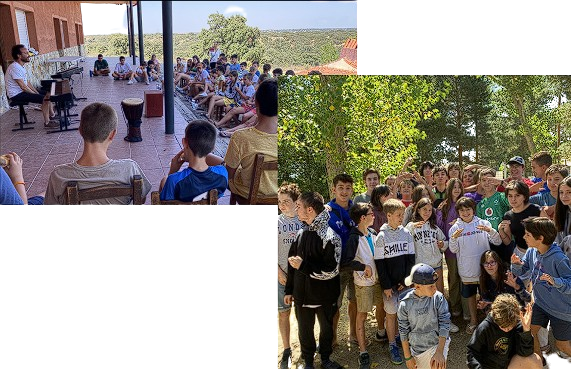
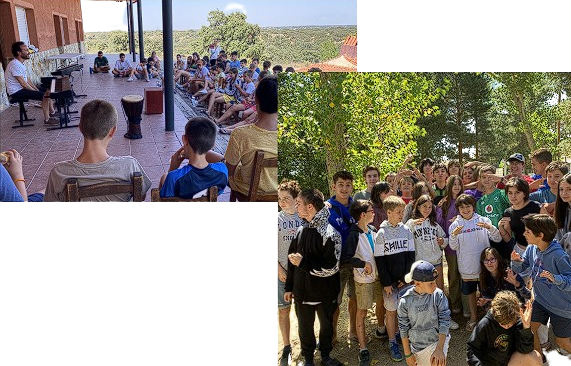
"WhyChoose" image fixed 2

diff --git a/web-dacpac/src/componets/WhyChoose/WhyChoose.tsx b/web-dacpac/src/componets/WhyChoose/WhyChoose.tsx
@@ -16,7 +16,7 @@ export const WhyChoose = () => {
             </p>
         </div>
         <div className="img">
-          <img src={base + img} draggable="false" alt="Imagenes de campamento" className="imagen-whychoose drop-shadow" />
+          <img src={base + img} draggable="false" alt="Imagenes de campamento" className="imagen-whychoose" />
         </div>
       </div>
     </center>
